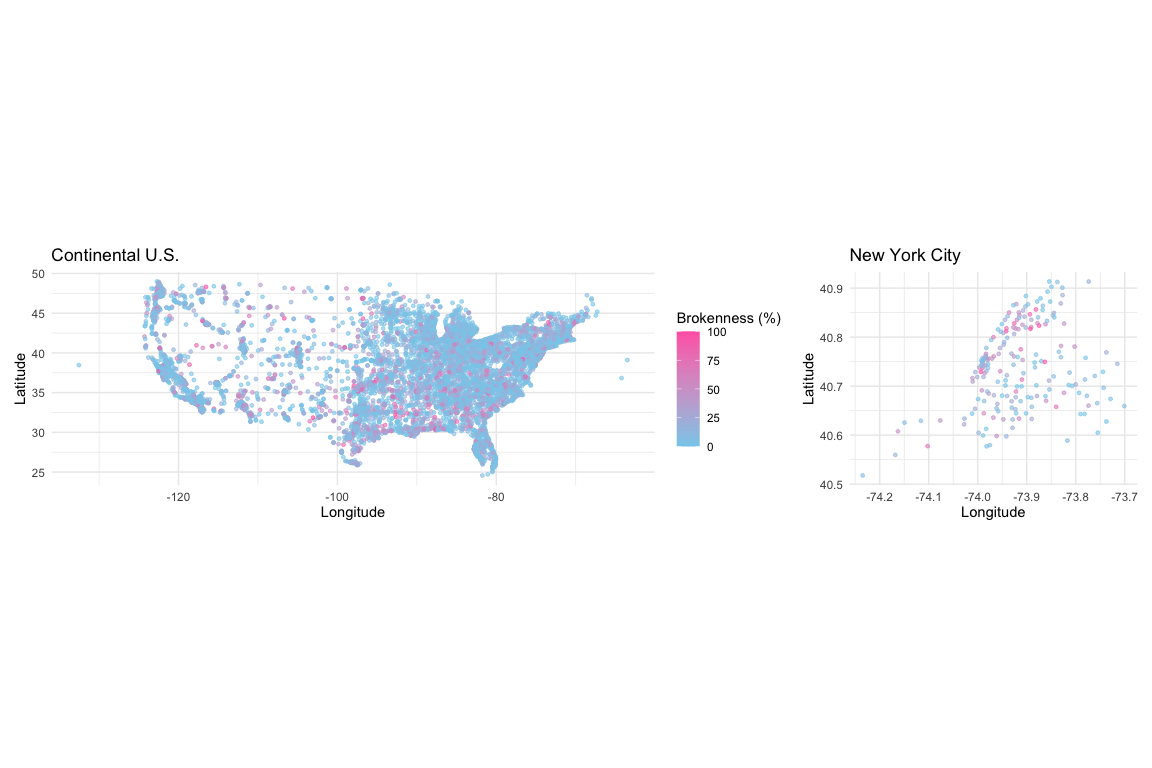
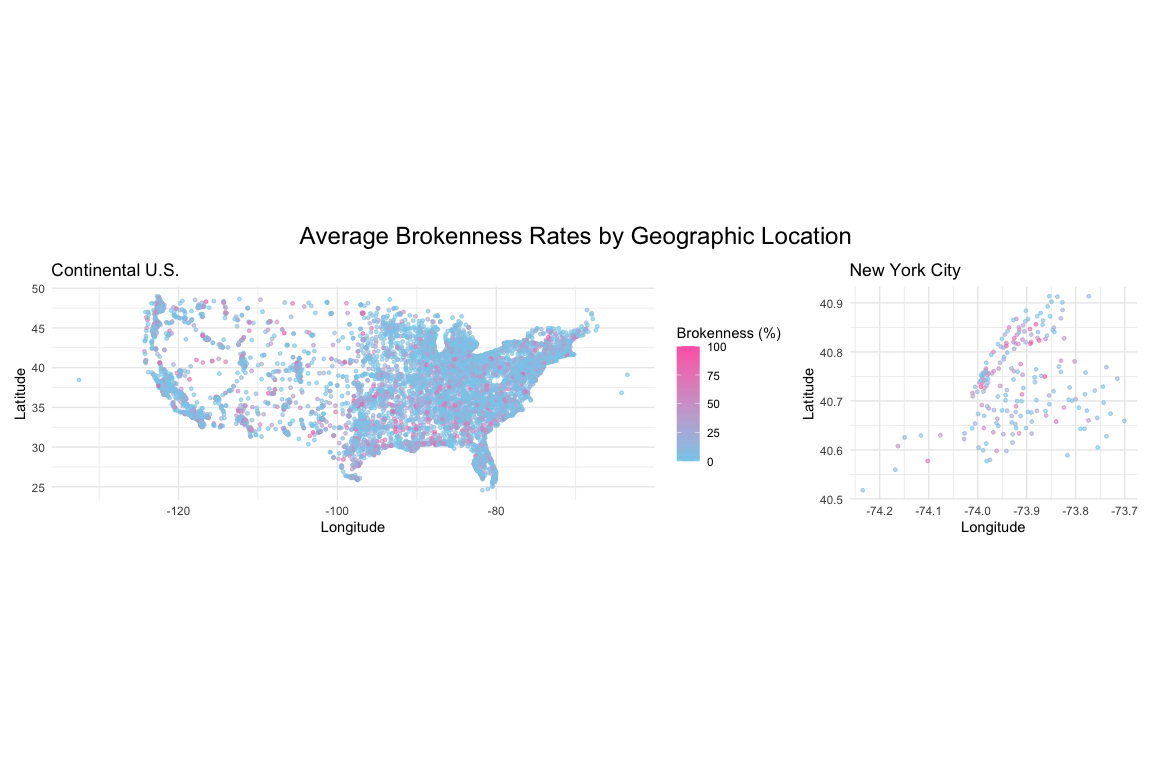
Finished miderm: Added captions to figures, reviewed and proofread code

diff --git a/p8105_midterm_amy.md b/p8105_midterm_amy.md
@@ -129,34 +129,24 @@ stores_obs_count <- mcbroken_clean %>%
   count(store_id, sort = TRUE)
 
 stores_least_obs <- stores_obs_count %>%
-  slice_tail(n=20)
+  slice_tail(n=10)
 
 stores_least_obs
 ```
 
-    ## # A tibble: 20 × 2
+    ## # A tibble: 10 × 2
     ##    store_id     n
     ##    <fct>    <int>
-    ##  1 58523942     1
-    ##  2 58704102     1
-    ##  3 68511183     1
-    ##  4 69020232     1
-    ##  5 73260200     1
-    ##  6 75988973     1
-    ##  7 77190555     1
-    ##  8 78159568     1
-    ##  9 80560257     1
-    ## 10 80812138     1
-    ## 11 82341179     1
-    ## 12 84752369     1
-    ## 13 84890895     1
-    ## 14 90062419     1
-    ## 15 90199064     1
-    ## 16 91144285     1
-    ## 17 91811163     1
-    ## 18 91911815     1
-    ## 19 96767040     1
-    ## 20 99184432     1
+    ##  1 82341179     1
+    ##  2 84752369     1
+    ##  3 84890895     1
+    ##  4 90062419     1
+    ##  5 90199064     1
+    ##  6 91144285     1
+    ##  7 91811163     1
+    ##  8 91911815     1
+    ##  9 96767040     1
+    ## 10 99184432     1
 
 ``` r
 # Checking for high rates of inactivity/brokenness at stores with at least 9 observations
@@ -321,19 +311,31 @@ closest_store_status_table <- mcbroken_clean %>%
     `Machine Broken?` = broken
     ) %>%
   kable(caption = "Monthly McFlurry machine status at the McDonald's closest to Mailman School of Public Health")
-closest_store_table 
+closest_store_status_table 
 ```
 
-| Store ID | Street Address | City | State | Distance (km) | Observations | Inactivity Rate | Brokenness Rate |
-|:---|:---|:---|:---|---:|---:|---:|---:|
-| 40651456 | 4040 Broadway | New York | NY | 0.35 | 12 | 0 | 0.08 |
+| Month | Machine Active? | Machine Broken? |
+|:------|:----------------|:----------------|
+| 01    | TRUE            | FALSE           |
+| 02    | TRUE            | FALSE           |
+| 03    | TRUE            | FALSE           |
+| 04    | TRUE            | FALSE           |
+| 05    | TRUE            | FALSE           |
+| 06    | TRUE            | FALSE           |
+| 07    | TRUE            | FALSE           |
+| 08    | TRUE            | FALSE           |
+| 09    | TRUE            | TRUE            |
+| 10    | TRUE            | FALSE           |
+| 11    | TRUE            | FALSE           |
+| 12    | TRUE            | FALSE           |
 
-McDonald’s location closest to Mailman School of Public Health
+Monthly McFlurry machine status at the McDonald’s closest to Mailman
+School of Public Health
 
 The nearest store to the Mailman School of Public Health is 4040
 Broadway, New York, approximately 0.35 km away. This location’s McFlurry
 machine was both active and working over the entire time period of the
-dataset.
+dataset, with the exception of September, when the machine was broken.
 
 #### NYC McDonald’s Locations with Highest Brokenness Rates
 
@@ -413,6 +415,12 @@ break_fix_table %>%
 | Broken          |  10521 |    7918 |
 
 Machine status changes between months
+
+According to the table above, most machines go from working to broken or
+stay in their previous status between months. Working machines are more
+likely to stay working (101,446) than become broken (8,176), while
+broken machines are more likely to stay broken (10,521) than return to
+working status (7,918).
 
 #### Average Brokenness by Region and Month
 
@@ -628,6 +636,12 @@ state_month_broken_plot
 
 ![](p8105_midterm_amy_files/figure-gfm/unnamed-chunk-7-1.png)<!-- -->
 
+Looking at the plot above, monthly brokenness rates were generally low
+and relatively stable across most states throughout the study period.
+Some states showed noticeable fluctuations or occasional spikes, but
+there was no widespread, consistent directional trend in brokenness
+across states.
+
 ### Average Brokenness Across States
 
 ``` r
@@ -660,7 +674,13 @@ avg_broken_state_plot
 
 ![](p8105_midterm_amy_files/figure-gfm/unnamed-chunk-8-1.png)<!-- -->
 
-### 
+According to the plot above, store-level average brokenness rates vary
+widely across states. Most states have low median brokenness rates, but
+many show substantial variability and high-brokenness outliers,
+indicating that some individual McDonald’s locations experience much
+greater machine downtime than others.
+
+### Average Brokenness Rates by Geographic Location
 
 ``` r
 # Merging datasets
@@ -733,8 +753,20 @@ nyc_plot_panel <- ggplot(
   theme(legend.position = "none")
 
 # Combining the two panels into one plot
-two_panel_stores_plot <- continental_plot_panel + nyc_plot_panel
+two_panel_stores_plot <- continental_plot_panel + nyc_plot_panel +
+  plot_annotation(
+    title = "Average Brokenness Rates by Geographic Location",
+    theme = theme(
+      plot.title = element_text(size = 18, hjust = 0.5)
+    )
+  )
+
 two_panel_stores_plot
 ```
 
 ![](p8105_midterm_amy_files/figure-gfm/unnamed-chunk-9-1.png)<!-- -->
+McDonald’s locations are concentrated in more densely populated areas,
+particularly in the eastern U.S. The NYC panel shows substantial
+variation in store-level brokenness within a relatively small geographic
+area, highlighting individual differences that are less apparent at the
+national scale.
